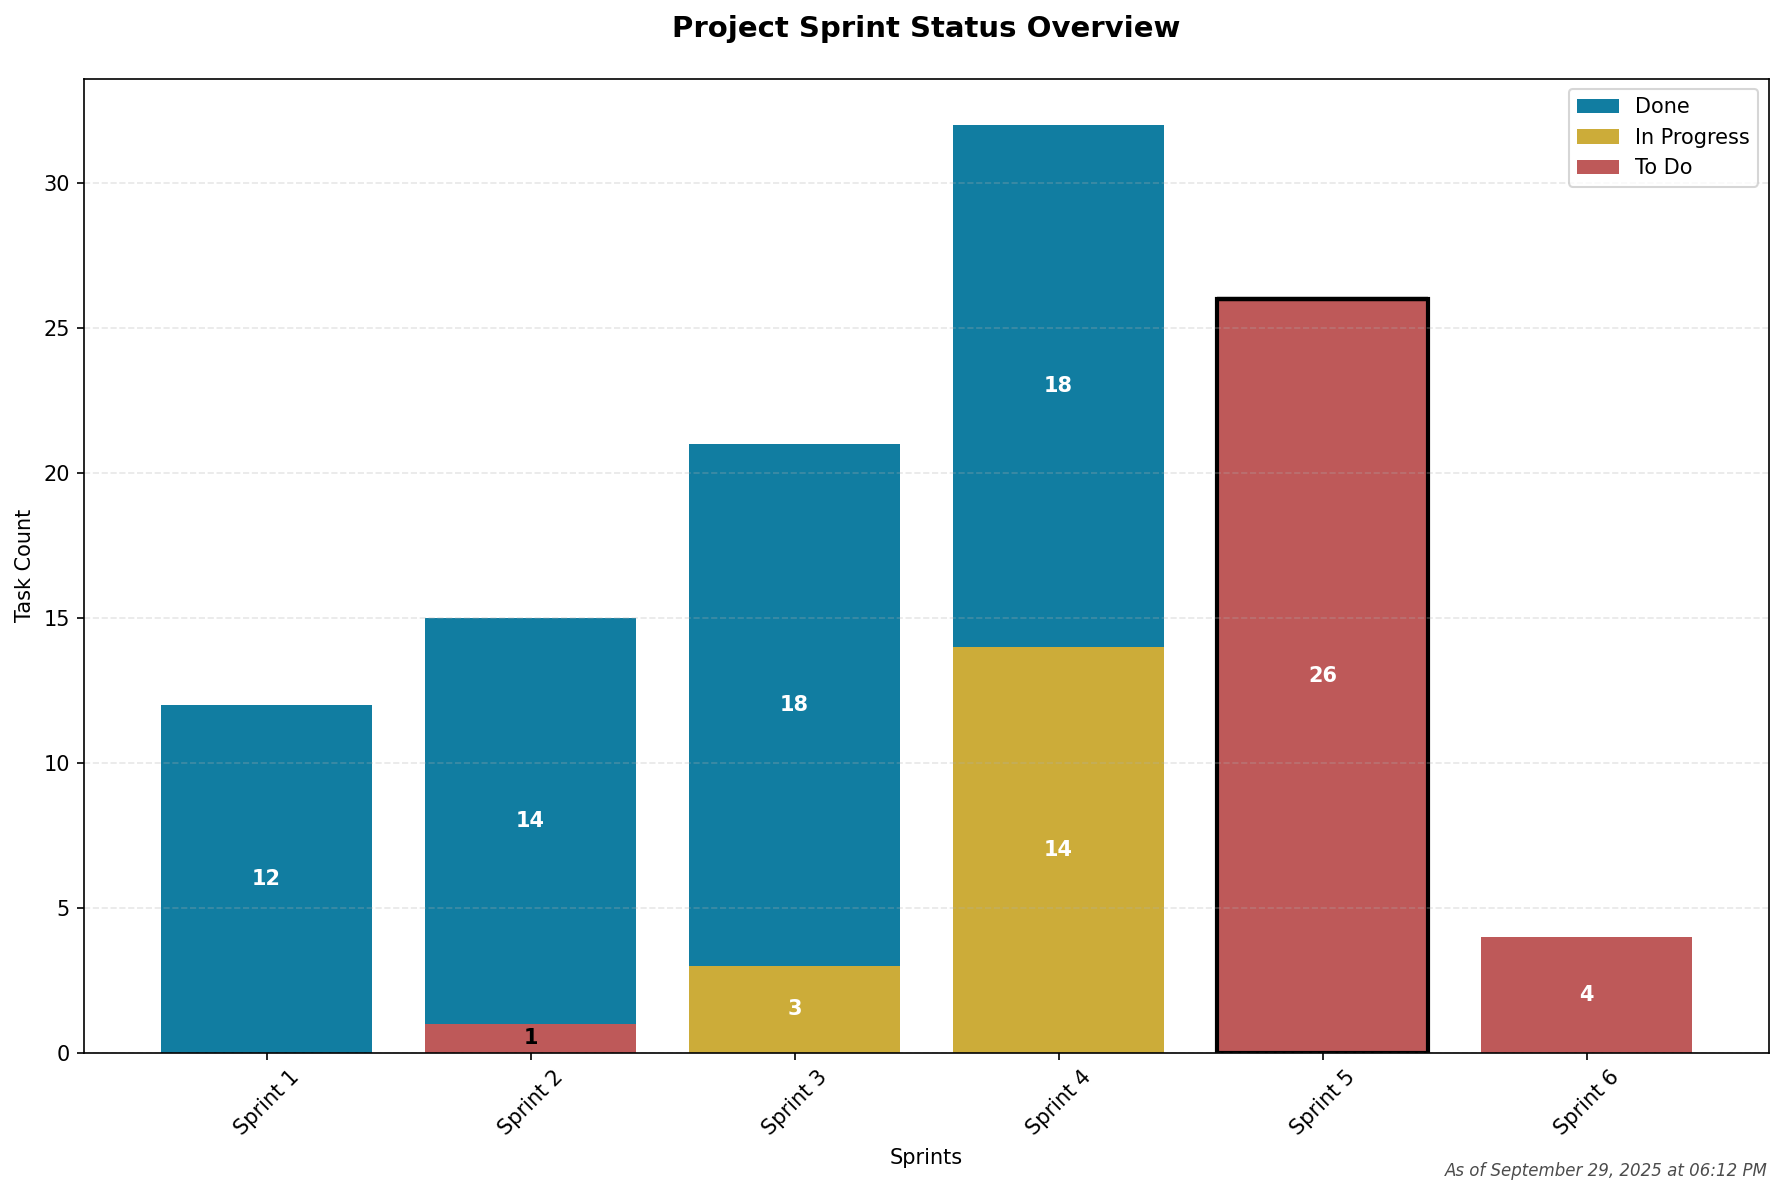
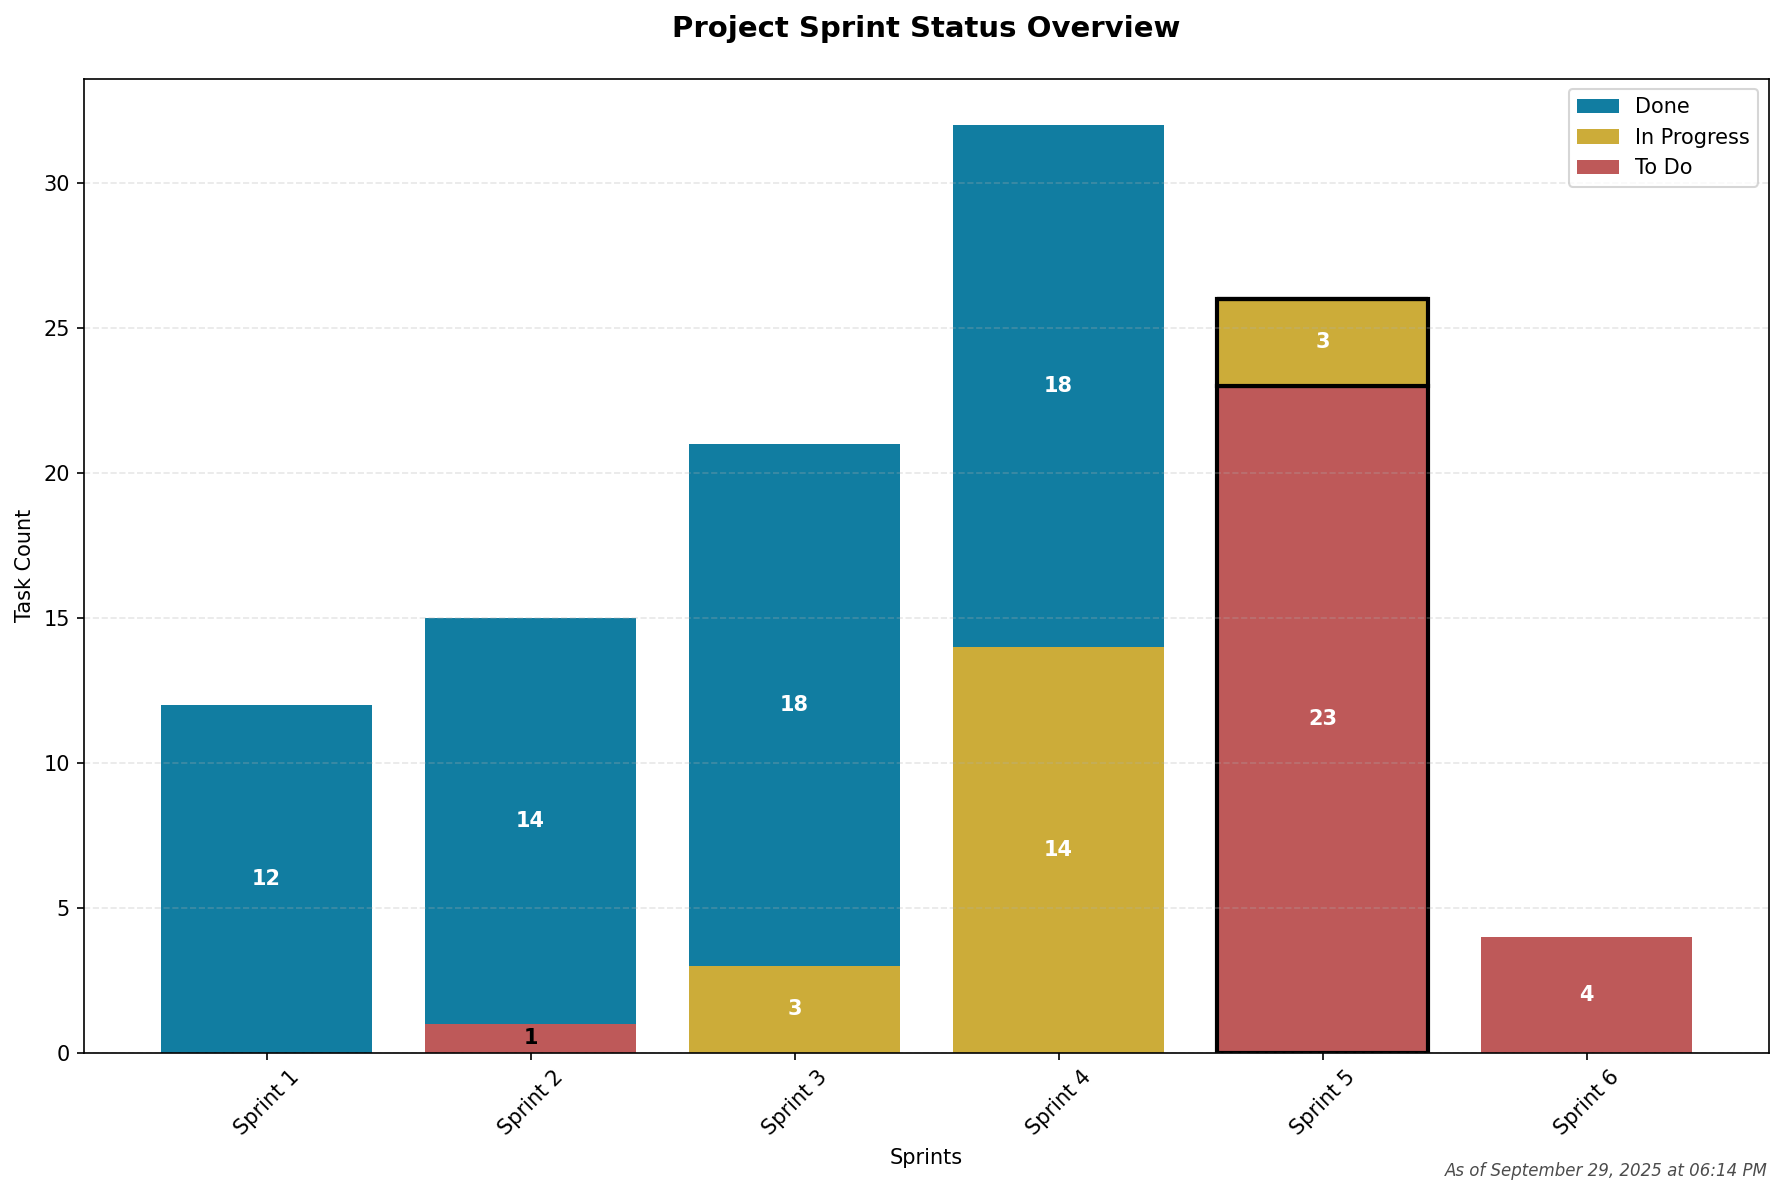
Update sprint status chart and progress in tracker
Updated the sprint_status_chart.png image and marked progress on advanced model optimization and class imbalance handling in the project_tracker.md for Sprint 5.

Changed region(s): [[0.6767, 0.2477, 0.7998, 0.3406]]

diff --git a/project_tracker.md b/project_tracker.md
@@ -202,10 +202,10 @@
 ## ⏳ Sprint 5: Model Enhancement – Pipeline Tuning, SHAP explainability, and Customer Segmenation *(Sep 29–Oct 12)*
 
 ### Sprint Goals
-- [ ] Advanced model optimization and tuning
-    - [ ] Bayesian hyperparameter optimization (Optuna or similar)
+- [~] Advanced model optimization and tuning
+    - [~] Bayesian hyperparameter optimization (Optuna or similar)
     - [ ] Feature engineering iteration based on model insights
-    - [ ] Class imbalance handling (SMOTE, class weights, threshold tuning)
+    - [~] Class imbalance handling (SMOTE, class weights, threshold tuning)
     - [ ] Model ensemble evaluation (XGBoost + XGBoost(Cluster_Features) + Logistic Regression)
 - [ ] SHAP explainability framework implementation
     - [ ] Global feature importance analysis across all customers
